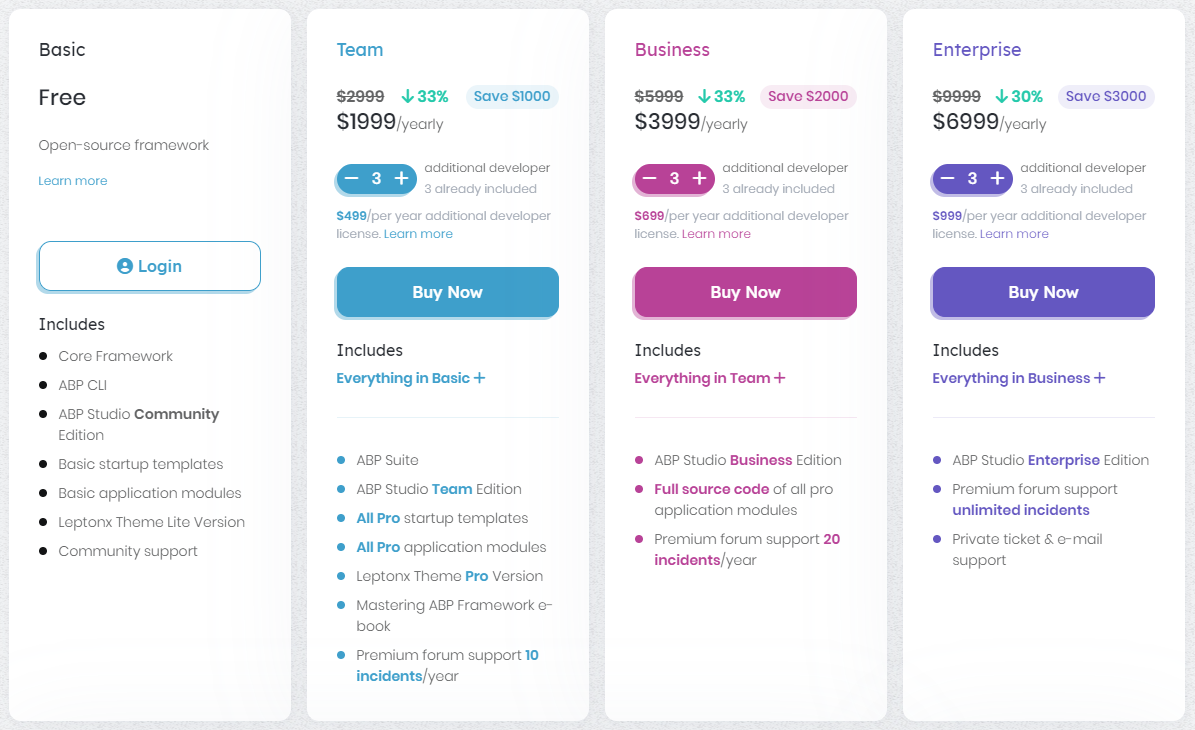
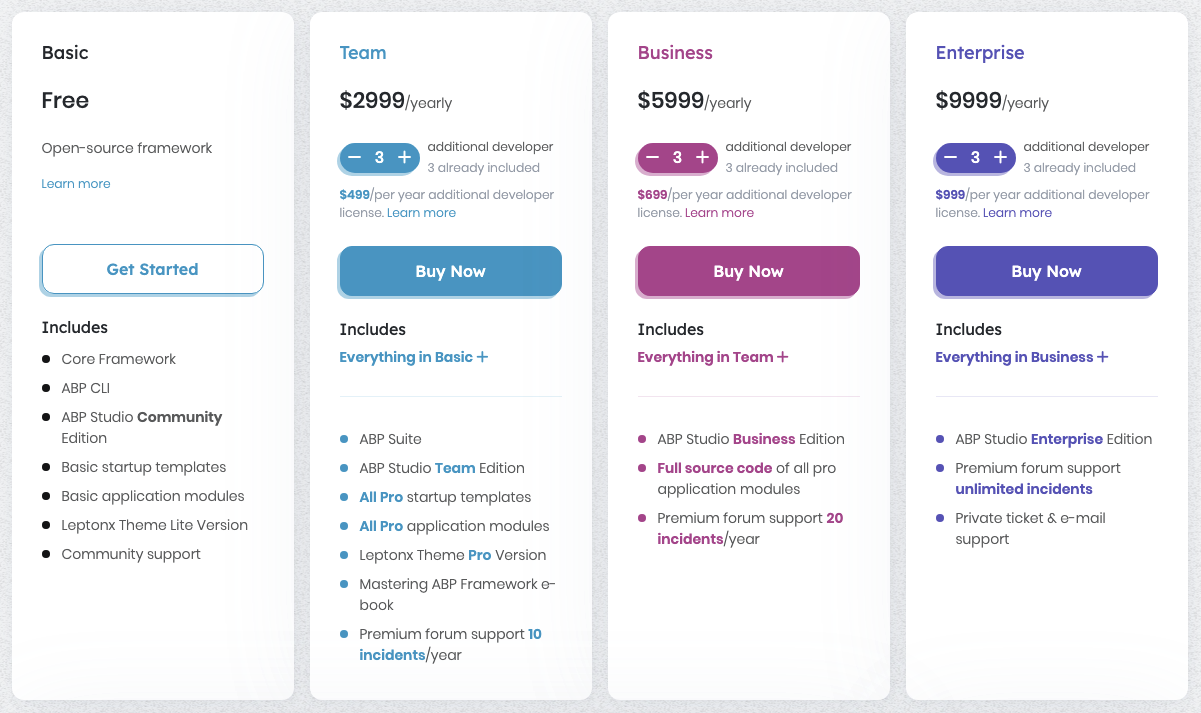
Updated picture

diff --git a/docs/en/Blog-Posts/2024-05 ABP Unification/post.md b/docs/en/Blog-Posts/2024-05 ABP Unification/post.md
@@ -55,8 +55,6 @@ You can easily download and install ABP Studio, login with your abp.io account a
 
 Since the [ABP Commercial website](https://commercial.abp.io/) is merged to the main website, you will see the *Pricing* page located on the main menu of the abp.io website. We have completely revised the design and content of this page to better reflect what is open source, free, and what features are included in the paid licenses.
 
-***TODO: UPDATE THE PICTURE***
-
 ![new-pricing](new-pricing.png)
 
 As mentioned above, all the free & open source features are still free & open source. In addition, we included the ABP Studio Community edition (will be explained below) to the free license.
